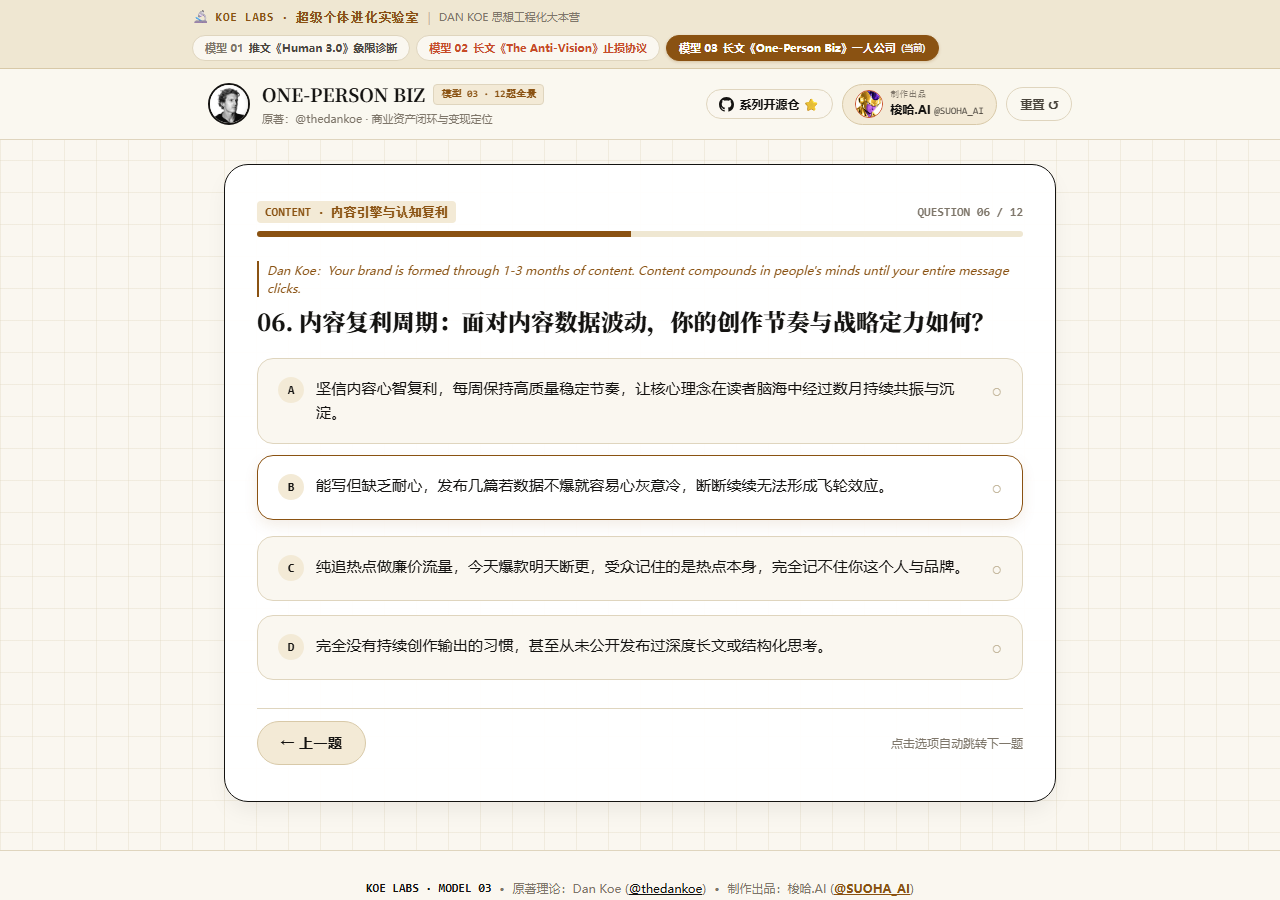
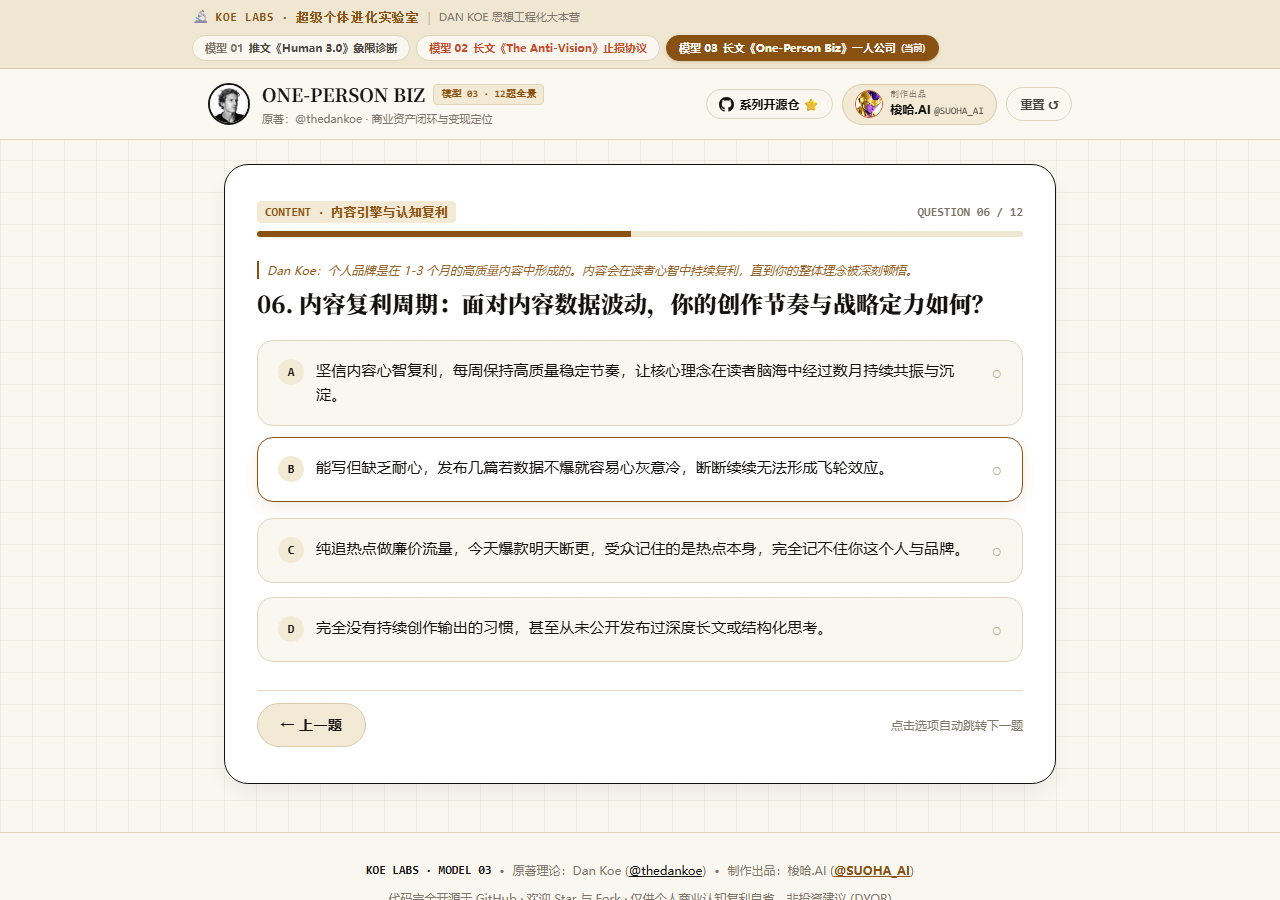
i18n: polish Chinese translations for Dan Koe quotes and question guidances

diff --git a/one-person-biz.html b/one-person-biz.html
@@ -243,8 +243,11 @@
                     <span class="mono" style="font-size: 11px; font-weight: 700; color: #8A5212;">DAN KOE (@thedankoe) 原著核心商业框架</span>
                     <a href="https://thedankoe.com/letters/the-one-person-business-model-how-to-monetize-yourself/" target="_blank" rel="noopener" style="font-size: 11px; color: #7E766A; text-decoration: underline;">查看长文原帖 ↗</a>
                 </div>
-                <blockquote style="margin: 0; font-size: 0.96rem; font-style: italic; color: #141311; line-height: 1.65; border-left: 3px solid #8A5212; padding-left: 0.85rem;">
-                    “The one person business is for those that value self-reliance, time freedom, and location freedom... <strong>You are the niche.</strong> Solve your own problems (brand), share how you did it (content), and package the system (offer). Work 2-4 hours a day, automate the rest.”
+                <blockquote style="margin: 0; font-size: 0.98rem; color: #141311; line-height: 1.7; border-left: 3px solid #8A5212; padding-left: 0.85rem;">
+                    “一人公司商业模式，是为追求自力更生、时间自由与地点自由的人而生的：<strong>你本身就是细分赛道。</strong>解决你自己的痛点（定位），公开分享你是怎么做到的（内容），并将这套解决方案打包成系统（产品）。每天深度创造 2-4 小时，剩下的全部交给自动化。”
+                    <div style="font-size: 0.84rem; color: #7E766A; font-style: italic; margin-top: 0.4rem;">
+                        “The one person business is for those that value self-reliance, time freedom, and location freedom... You are the niche. Solve your own problems (brand), share how you did it (content), and package the system (offer). Work 2-4 hours a day, automate the rest.”
+                    </div>
                 </blockquote>
             </div>
 
@@ -496,7 +499,7 @@
             {
                 pillar: "BRANDING",
                 pillarName: "BRANDING · 个人定位与细分赛道",
-                guidance: "Dan Koe：My way, The Experience Model, turns YOU into the customer avatar... The unique combination of your topics IS your niche.",
+                guidance: "Dan Koe：我的‘经历模型’将你自己变成唯一的用户画像……你独特的生活经历与跨界兴趣组合，本身就是不可复制的细分赛道。",
                 title: "01. 定位原型：在互联网上，你的个人定位是如何构建的？",
                 options: [
                     { score: 100, label: "A", text: "我以自己的真实痛点、转型经历与目标为原型（The Experience Model）。我本身就是细分赛道，无人可完全替代。" },
@@ -508,7 +511,7 @@
             {
                 pillar: "BRANDING",
                 pillarName: "BRANDING · 个人定位与细分赛道",
-                guidance: "Dan Koe：The 4 eternal markets are where burning, profitable problems exist: Health, Wealth, Relationships, Happiness.",
+                guidance: "Dan Koe：4 大永恒市场才是刚需且高利润痛点的所在：健康、财富、亲密关系与认知幸福。",
                 title: "02. 永恒市场：你解决的问题，是否扎根在人类底层刚需中？",
                 options: [
                     { score: 100, label: "A", text: "牢牢扎根于 4 大永恒市场之一（健康/财富/亲密关系/认知幸福），切中高客单价值交换的底层刚需。" },
@@ -520,7 +523,7 @@
             {
                 pillar: "BRANDING",
                 pillarName: "BRANDING · 个人定位与细分赛道",
-                guidance: "Dan Koe：You have 18-35+ years of unique experience. The problem? You do not see the value in that experience... People of depth get paid most.",
+                guidance: "Dan Koe：你有十几到几十年的独特经历。最大的问题是你看不见它的价值……有深度、有独特视角的人，在市场上拿到的报酬最高。",
                 title: "03. 经历资产化：你如何看待并提取自己过去十几年的生活与职业经验？",
                 options: [
                     { score: 100, label: "A", text: "深刻理解自己踩过的坑、解决过的困惑就是最具价值的数字资产，能将其系统化打包为他人避坑的指南针。" },
@@ -534,7 +537,7 @@
             {
                 pillar: "CONTENT",
                 pillarName: "CONTENT · 内容引擎与认知复利",
-                guidance: "Dan Koe：In Digital Economics, I teach the Domain Of Mastery: 1 monetizable skill + 2 complementary interests... That is how you get paid.",
+                guidance: "Dan Koe：专精领域三维架构（Domain of Mastery）：1门变现硬技能 + 2门互补通识兴趣。这就是把自我提升直接转变为商业价值的方法。",
                 title: "04. 专精领域架构：你的内容创作是否具备高维度的知识生态系统？",
                 options: [
                     { score: 100, label: "A", text: "构建了清晰的“1门硬核核心技能 + 2门互补通识兴趣”（Domain of Mastery），既有专业硬深度又有跨界广度。" },
@@ -546,7 +549,7 @@
             {
                 pillar: "CONTENT",
                 pillarName: "CONTENT · 内容引擎与认知复利",
-                guidance: "Dan Koe：90% of the market are beginners... You will find the best results helping people 1 level under you. Send an elevator down.",
+                guidance: "Dan Koe：市场中 90% 的人都是初学者。专注去赋能比自己低 1 级的初学者，主动放下电梯接他们上楼。",
                 title: "05. 受众共鸣与初学者视角：你创作内容时的语言范式与沟通目标是什么？",
                 options: [
                     { score: 100, label: "A", text: "懂得用最通俗易懂的语言讲透底层原理，专注赋能比自己低 1 级的初学者，主动搭建带他们上楼的“电梯”。" },
@@ -558,7 +561,7 @@
             {
                 pillar: "CONTENT",
                 pillarName: "CONTENT · 内容引擎与认知复利",
-                guidance: "Dan Koe：Your brand is formed through 1-3 months of content. Content compounds in people's minds until your entire message clicks.",
+                guidance: "Dan Koe：个人品牌是在 1-3 个月的高质量内容中形成的。内容会在读者心智中持续复利，直到你的整体理念被深刻顿悟。",
                 title: "06. 内容复利周期：面对内容数据波动，你的创作节奏与战略定力如何？",
                 options: [
                     { score: 100, label: "A", text: "坚信内容心智复利，每周保持高质量稳定节奏，让核心理念在读者脑海中经过数月持续共振与沉淀。" },
@@ -572,7 +575,7 @@
             {
                 pillar: "OFFER",
                 pillarName: "OFFER · 变现产品与交付矩阵",
-                guidance: "Dan Koe：You NEED something to iterate on... The MVO is a single-skill freelance service or a pack of 4 consult calls for $500-$1000.",
+                guidance: "Dan Koe：你必须立刻拥有一个可以持续迭代的变现载体。MVO（最小可行变现）就是一项单技能服务或 $500-$1000 的咨询，尽早开价推向市场。",
                 title: "07. 最小可行变现（MVO）：你是否在市场中拥有可立即收款的变现载体？",
                 options: [
                     { score: 100, label: "A", text: "早已推出专属的最小可行变现（MVO，如 $500-$1000 咨询/指导或单项解决方案），在真实交付中持续迭代升级。" },
@@ -584,7 +587,7 @@
             {
                 pillar: "OFFER",
                 pillarName: "OFFER · 变现产品与交付矩阵",
-                guidance: "Dan Koe：To increase the value of your consulting, outline a curriculum, worksheets, and Notion dashboards... These turn into products you sell.",
+                guidance: "Dan Koe：要想提高咨询的价值，就要梳理课程大纲、交付清单与 Notion 工作流……这些随着受众增长都会演进为数字产品。",
                 title: "08. 产品阶梯化升级：你的业务是否具备从“出卖时间”到“可复制资产”的演进路径？",
                 options: [
                     { score: 100, label: "A", text: "构建了清晰的阶梯矩阵：高客单咨询验证需求 → 沉淀为数字化模版/工作流 → 进化为自动化数字资产。" },
@@ -596,7 +599,7 @@
             {
                 pillar: "OFFER",
                 pillarName: "OFFER · 变现产品与交付矩阵",
-                guidance: "Dan Koe 2026：Static courses don't cut it anymore... Selling learning experiences and micro software rather than static courses.",
+                guidance: "Dan Koe 2026：死板的录播课和静态 PDF 正在迅速贬值。2026 年的核心是交付‘交互式学习体验’与‘AI 微工具/微软件’。",
                 title: "09. 2026 AI新交付：面对 AI 时代知识泛滥，你的交付形态是否完成了智能化升级？",
                 options: [
                     { score: 100, label: "A", text: "主动用 AI、自动化脚本与交互式轻工具重构知识资产，交付可互动的实战体验（Micro-SaaS/轻工具），而非死板文档。" },
@@ -610,7 +613,7 @@
             {
                 pillar: "FUNNEL",
                 pillarName: "FUNNEL · 分发通道与自由飞轮",
-                guidance: "Dan Koe：Social media for building leverage... No-code tools and email lists that can’t be taken away like social media.",
+                guidance: "Dan Koe：公域社交媒体用来建立杠杆和捕获注意力；而 Newsletter 邮件列表才是永远无法被平台夺走的数字房产。",
                 title: "10. 私域数字房产：你是否拥有不受平台算法绑架的专属流量蓄水池？",
                 options: [
                     { score: 100, label: "A", text: "拥有自己的独立私域阵地（个人博客/Substack/邮件通讯列表），不依赖单一平台算法，商业资产牢牢掌握在自己手中。" },
@@ -622,7 +625,7 @@
             {
                 pillar: "FUNNEL",
                 pillarName: "FUNNEL · 分发通道与自由飞轮",
-                guidance: "Dan Koe：You need to promote yourself on a consistent basis. If you don’t promote your offer, you aren’t going to make money.",
+                guidance: "Dan Koe：你必须保持持续、坦荡地推广。如果你不主动展示你的高价值方案，你就无法产生收入。商业本质是双向利他的价值交换。",
                 title: "11. 主动推广与商业坦荡：你如何向你的受众推荐你的高价值商业方案？",
                 options: [
                     { score: 100, label: "A", text: "能够坦然、自信且高频地在优质内容末尾植入商业解决方案，深知这是双向利他的价值交换。" },
@@ -634,7 +637,7 @@
             {
                 pillar: "FUNNEL",
                 pillarName: "FUNNEL · 分发通道与自由飞轮",
-                guidance: "Dan Koe：Work less. Earn more. Enjoy life... A work schedule that best suits the individual – usually 2-4 hours of work a day.",
+                guidance: "Dan Koe：少干活、多赚钱、享受生活。设计专属于自己的工作节奏——每天只需 2-4 小时高专注深度创造，将时间与收入彻底脱钩。",
                 title: "12. 时间脱钩与生活方式设计：你的日常工作节奏，是否实现了创造力与自由的统一？",
                 options: [
                     { score: 100, label: "A", text: "每天只需 2-4 小时高专注深度创造，业务由自动化流程与内容资产驱动，拥有充分的时间与地点自由。" },

diff --git a/one-person-biz/index.html b/one-person-biz/index.html
@@ -243,8 +243,11 @@
                     <span class="mono" style="font-size: 11px; font-weight: 700; color: #8A5212;">DAN KOE (@thedankoe) 原著核心商业框架</span>
                     <a href="https://thedankoe.com/letters/the-one-person-business-model-how-to-monetize-yourself/" target="_blank" rel="noopener" style="font-size: 11px; color: #7E766A; text-decoration: underline;">查看长文原帖 ↗</a>
                 </div>
-                <blockquote style="margin: 0; font-size: 0.96rem; font-style: italic; color: #141311; line-height: 1.65; border-left: 3px solid #8A5212; padding-left: 0.85rem;">
-                    “The one person business is for those that value self-reliance, time freedom, and location freedom... <strong>You are the niche.</strong> Solve your own problems (brand), share how you did it (content), and package the system (offer). Work 2-4 hours a day, automate the rest.”
+                <blockquote style="margin: 0; font-size: 0.98rem; color: #141311; line-height: 1.7; border-left: 3px solid #8A5212; padding-left: 0.85rem;">
+                    “一人公司商业模式，是为追求自力更生、时间自由与地点自由的人而生的：<strong>你本身就是细分赛道。</strong>解决你自己的痛点（定位），公开分享你是怎么做到的（内容），并将这套解决方案打包成系统（产品）。每天深度创造 2-4 小时，剩下的全部交给自动化。”
+                    <div style="font-size: 0.84rem; color: #7E766A; font-style: italic; margin-top: 0.4rem;">
+                        “The one person business is for those that value self-reliance, time freedom, and location freedom... You are the niche. Solve your own problems (brand), share how you did it (content), and package the system (offer). Work 2-4 hours a day, automate the rest.”
+                    </div>
                 </blockquote>
             </div>
 
@@ -496,7 +499,7 @@
             {
                 pillar: "BRANDING",
                 pillarName: "BRANDING · 个人定位与细分赛道",
-                guidance: "Dan Koe：My way, The Experience Model, turns YOU into the customer avatar... The unique combination of your topics IS your niche.",
+                guidance: "Dan Koe：我的‘经历模型’将你自己变成唯一的用户画像……你独特的生活经历与跨界兴趣组合，本身就是不可复制的细分赛道。",
                 title: "01. 定位原型：在互联网上，你的个人定位是如何构建的？",
                 options: [
                     { score: 100, label: "A", text: "我以自己的真实痛点、转型经历与目标为原型（The Experience Model）。我本身就是细分赛道，无人可完全替代。" },
@@ -508,7 +511,7 @@
             {
                 pillar: "BRANDING",
                 pillarName: "BRANDING · 个人定位与细分赛道",
-                guidance: "Dan Koe：The 4 eternal markets are where burning, profitable problems exist: Health, Wealth, Relationships, Happiness.",
+                guidance: "Dan Koe：4 大永恒市场才是刚需且高利润痛点的所在：健康、财富、亲密关系与认知幸福。",
                 title: "02. 永恒市场：你解决的问题，是否扎根在人类底层刚需中？",
                 options: [
                     { score: 100, label: "A", text: "牢牢扎根于 4 大永恒市场之一（健康/财富/亲密关系/认知幸福），切中高客单价值交换的底层刚需。" },
@@ -520,7 +523,7 @@
             {
                 pillar: "BRANDING",
                 pillarName: "BRANDING · 个人定位与细分赛道",
-                guidance: "Dan Koe：You have 18-35+ years of unique experience. The problem? You do not see the value in that experience... People of depth get paid most.",
+                guidance: "Dan Koe：你有十几到几十年的独特经历。最大的问题是你看不见它的价值……有深度、有独特视角的人，在市场上拿到的报酬最高。",
                 title: "03. 经历资产化：你如何看待并提取自己过去十几年的生活与职业经验？",
                 options: [
                     { score: 100, label: "A", text: "深刻理解自己踩过的坑、解决过的困惑就是最具价值的数字资产，能将其系统化打包为他人避坑的指南针。" },
@@ -534,7 +537,7 @@
             {
                 pillar: "CONTENT",
                 pillarName: "CONTENT · 内容引擎与认知复利",
-                guidance: "Dan Koe：In Digital Economics, I teach the Domain Of Mastery: 1 monetizable skill + 2 complementary interests... That is how you get paid.",
+                guidance: "Dan Koe：专精领域三维架构（Domain of Mastery）：1门变现硬技能 + 2门互补通识兴趣。这就是把自我提升直接转变为商业价值的方法。",
                 title: "04. 专精领域架构：你的内容创作是否具备高维度的知识生态系统？",
                 options: [
                     { score: 100, label: "A", text: "构建了清晰的“1门硬核核心技能 + 2门互补通识兴趣”（Domain of Mastery），既有专业硬深度又有跨界广度。" },
@@ -546,7 +549,7 @@
             {
                 pillar: "CONTENT",
                 pillarName: "CONTENT · 内容引擎与认知复利",
-                guidance: "Dan Koe：90% of the market are beginners... You will find the best results helping people 1 level under you. Send an elevator down.",
+                guidance: "Dan Koe：市场中 90% 的人都是初学者。专注去赋能比自己低 1 级的初学者，主动放下电梯接他们上楼。",
                 title: "05. 受众共鸣与初学者视角：你创作内容时的语言范式与沟通目标是什么？",
                 options: [
                     { score: 100, label: "A", text: "懂得用最通俗易懂的语言讲透底层原理，专注赋能比自己低 1 级的初学者，主动搭建带他们上楼的“电梯”。" },
@@ -558,7 +561,7 @@
             {
                 pillar: "CONTENT",
                 pillarName: "CONTENT · 内容引擎与认知复利",
-                guidance: "Dan Koe：Your brand is formed through 1-3 months of content. Content compounds in people's minds until your entire message clicks.",
+                guidance: "Dan Koe：个人品牌是在 1-3 个月的高质量内容中形成的。内容会在读者心智中持续复利，直到你的整体理念被深刻顿悟。",
                 title: "06. 内容复利周期：面对内容数据波动，你的创作节奏与战略定力如何？",
                 options: [
                     { score: 100, label: "A", text: "坚信内容心智复利，每周保持高质量稳定节奏，让核心理念在读者脑海中经过数月持续共振与沉淀。" },
@@ -572,7 +575,7 @@
             {
                 pillar: "OFFER",
                 pillarName: "OFFER · 变现产品与交付矩阵",
-                guidance: "Dan Koe：You NEED something to iterate on... The MVO is a single-skill freelance service or a pack of 4 consult calls for $500-$1000.",
+                guidance: "Dan Koe：你必须立刻拥有一个可以持续迭代的变现载体。MVO（最小可行变现）就是一项单技能服务或 $500-$1000 的咨询，尽早开价推向市场。",
                 title: "07. 最小可行变现（MVO）：你是否在市场中拥有可立即收款的变现载体？",
                 options: [
                     { score: 100, label: "A", text: "早已推出专属的最小可行变现（MVO，如 $500-$1000 咨询/指导或单项解决方案），在真实交付中持续迭代升级。" },
@@ -584,7 +587,7 @@
             {
                 pillar: "OFFER",
                 pillarName: "OFFER · 变现产品与交付矩阵",
-                guidance: "Dan Koe：To increase the value of your consulting, outline a curriculum, worksheets, and Notion dashboards... These turn into products you sell.",
+                guidance: "Dan Koe：要想提高咨询的价值，就要梳理课程大纲、交付清单与 Notion 工作流……这些随着受众增长都会演进为数字产品。",
                 title: "08. 产品阶梯化升级：你的业务是否具备从“出卖时间”到“可复制资产”的演进路径？",
                 options: [
                     { score: 100, label: "A", text: "构建了清晰的阶梯矩阵：高客单咨询验证需求 → 沉淀为数字化模版/工作流 → 进化为自动化数字资产。" },
@@ -596,7 +599,7 @@
             {
                 pillar: "OFFER",
                 pillarName: "OFFER · 变现产品与交付矩阵",
-                guidance: "Dan Koe 2026：Static courses don't cut it anymore... Selling learning experiences and micro software rather than static courses.",
+                guidance: "Dan Koe 2026：死板的录播课和静态 PDF 正在迅速贬值。2026 年的核心是交付‘交互式学习体验’与‘AI 微工具/微软件’。",
                 title: "09. 2026 AI新交付：面对 AI 时代知识泛滥，你的交付形态是否完成了智能化升级？",
                 options: [
                     { score: 100, label: "A", text: "主动用 AI、自动化脚本与交互式轻工具重构知识资产，交付可互动的实战体验（Micro-SaaS/轻工具），而非死板文档。" },
@@ -610,7 +613,7 @@
             {
                 pillar: "FUNNEL",
                 pillarName: "FUNNEL · 分发通道与自由飞轮",
-                guidance: "Dan Koe：Social media for building leverage... No-code tools and email lists that can’t be taken away like social media.",
+                guidance: "Dan Koe：公域社交媒体用来建立杠杆和捕获注意力；而 Newsletter 邮件列表才是永远无法被平台夺走的数字房产。",
                 title: "10. 私域数字房产：你是否拥有不受平台算法绑架的专属流量蓄水池？",
                 options: [
                     { score: 100, label: "A", text: "拥有自己的独立私域阵地（个人博客/Substack/邮件通讯列表），不依赖单一平台算法，商业资产牢牢掌握在自己手中。" },
@@ -622,7 +625,7 @@
             {
                 pillar: "FUNNEL",
                 pillarName: "FUNNEL · 分发通道与自由飞轮",
-                guidance: "Dan Koe：You need to promote yourself on a consistent basis. If you don’t promote your offer, you aren’t going to make money.",
+                guidance: "Dan Koe：你必须保持持续、坦荡地推广。如果你不主动展示你的高价值方案，你就无法产生收入。商业本质是双向利他的价值交换。",
                 title: "11. 主动推广与商业坦荡：你如何向你的受众推荐你的高价值商业方案？",
                 options: [
                     { score: 100, label: "A", text: "能够坦然、自信且高频地在优质内容末尾植入商业解决方案，深知这是双向利他的价值交换。" },
@@ -634,7 +637,7 @@
             {
                 pillar: "FUNNEL",
                 pillarName: "FUNNEL · 分发通道与自由飞轮",
-                guidance: "Dan Koe：Work less. Earn more. Enjoy life... A work schedule that best suits the individual – usually 2-4 hours of work a day.",
+                guidance: "Dan Koe：少干活、多赚钱、享受生活。设计专属于自己的工作节奏——每天只需 2-4 小时高专注深度创造，将时间与收入彻底脱钩。",
                 title: "12. 时间脱钩与生活方式设计：你的日常工作节奏，是否实现了创造力与自由的统一？",
                 options: [
                     { score: 100, label: "A", text: "每天只需 2-4 小时高专注深度创造，业务由自动化流程与内容资产驱动，拥有充分的时间与地点自由。" },
